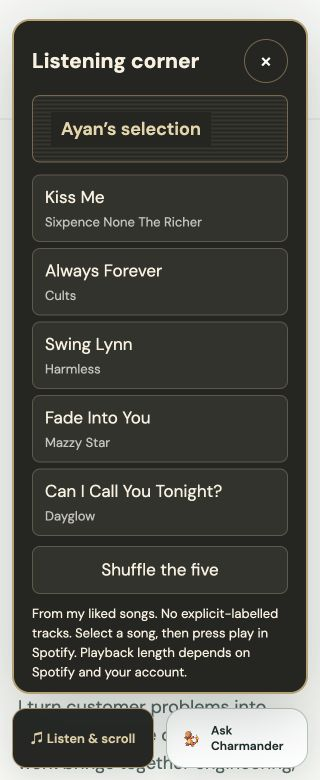
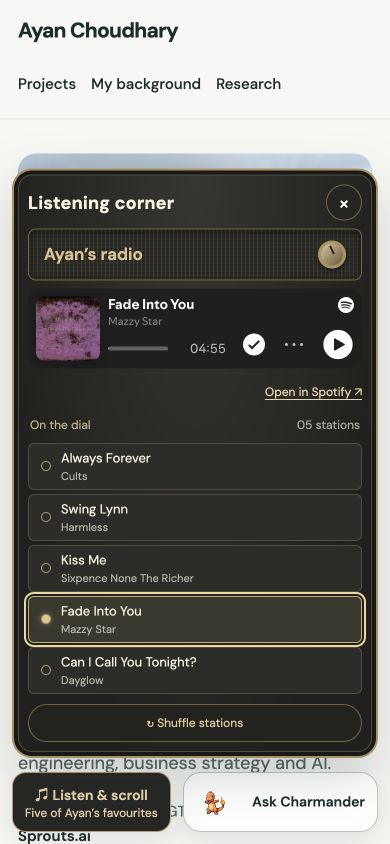
Keep the music player visible above a compact vintage radio dial

diff --git a/music.js b/music.js
@@ -9,10 +9,11 @@
  {id:'61OJxhoY3Ix50rYVKo8zRK',title:'Can I Call You Tonight?',artist:'Dayglow',explicit:false}
  ].filter(t=>t.explicit===false&&/^[A-Za-z0-9]{22}$/.test(t.id));
  const root=document.createElement('div');root.id='portfolio-music';root.className='ph-no-capture';document.body.append(root);
- root.innerHTML='<button class="music-launcher" aria-expanded="false" aria-controls="music-panel">♫ Listen & scroll<small>Five of Ayan’s favourites</small></button><section class="music-panel" id="music-panel" role="dialog" aria-modal="false" aria-label="Ayan’s listening corner" hidden><header class="speaker-top"><strong>Listening corner</strong><button aria-label="Close music player">×</button></header><div class="speaker-grille"><span>Ayan’s selection</span></div><div class="music-tracks"></div><button class="music-shuffle">Shuffle the five</button><div class="music-player"></div><p class="music-note">From my liked songs. No explicit-labelled tracks. Select a song, then press play in Spotify. Playback length depends on Spotify and your account.</p></section>';
+ root.innerHTML='<button class="music-launcher" aria-expanded="false" aria-controls="music-panel">♫ Listen & scroll<small>Five of Ayan’s favourites</small></button><section class="music-panel" id="music-panel" role="dialog" aria-modal="false" aria-label="Ayan’s listening corner" hidden><header class="speaker-top"><strong>Listening corner</strong><button aria-label="Close music player">×</button></header><div class="speaker-grille"><span>Ayan’s radio</span><i aria-hidden="true"></i></div><div class="music-player"><div class="radio-idle"><span aria-hidden="true">♫</span><strong>Pick your soundtrack</strong></div></div><div class="radio-stations-label">On the dial <span>05 stations</span></div><div class="music-tracks" role="radiogroup" aria-label="Choose a song"></div><button class="music-shuffle">↻ Shuffle stations</button></section>';
  const launcher=root.querySelector('.music-launcher'),panel=root.querySelector('.music-panel'),list=root.querySelector('.music-tracks'),player=root.querySelector('.music-player');let selected=null;
  function shuffle(){for(let i=tracks.length-1;i>0;i--){const j=Math.floor(Math.random()*(i+1));[tracks[i],tracks[j]]=[tracks[j],tracks[i]];}render();}
- function render(){list.replaceChildren();tracks.forEach(t=>{const b=document.createElement('button');b.type='button';b.setAttribute('aria-pressed',String(selected===t.id));b.textContent=t.title;const small=document.createElement('small');small.textContent=t.artist;b.append(small);b.addEventListener('click',()=>{selected=t.id;player.replaceChildren();const iframe=document.createElement('iframe');iframe.title='Spotify player: '+t.title;iframe.src='https://open.spotify.com/embed/track/'+t.id+'?theme=0';iframe.allow='autoplay; clipboard-write; encrypted-media; fullscreen; picture-in-picture';player.append(iframe);const a=document.createElement('a');a.href='https://open.spotify.com/track/'+t.id;a.textContent='Open '+t.title+' in Spotify ↗';a.target='_blank';a.rel='noopener noreferrer';a.className='music-fallback';player.append(a);render();});list.append(b);});}
- function close(){panel.hidden=true;launcher.setAttribute('aria-expanded','false');player.replaceChildren();selected=null;render();}
+ function select(t){selected=t.id;player.replaceChildren();const iframe=document.createElement('iframe');iframe.title='Spotify player: '+t.title;iframe.src='https://open.spotify.com/embed/track/'+t.id+'?theme=0';iframe.allow='autoplay; clipboard-write; encrypted-media; fullscreen; picture-in-picture';player.append(iframe);const a=document.createElement('a');a.href='https://open.spotify.com/track/'+t.id;a.textContent='Open in Spotify ↗';a.target='_blank';a.rel='noopener noreferrer';a.className='music-fallback';player.append(a);render();}
+ function render(){list.replaceChildren();tracks.forEach(t=>{const b=document.createElement('button');b.type='button';b.setAttribute('role','radio');b.setAttribute('aria-checked',String(selected===t.id));b.textContent=t.title;const small=document.createElement('small');small.textContent=t.artist;b.append(small);b.addEventListener('click',()=>select(t));b.addEventListener('keydown',e=>{if(['ArrowDown','ArrowRight','ArrowUp','ArrowLeft','Home','End'].includes(e.key)){e.preventDefault();const current=tracks.indexOf(t),next=e.key==='Home'?0:e.key==='End'?tracks.length-1:(current+(['ArrowDown','ArrowRight'].includes(e.key)?1:-1)+tracks.length)%tracks.length;select(tracks[next]);list.children[next].focus({preventScroll:true});}});list.append(b);});}
+ function close(){panel.hidden=true;launcher.setAttribute('aria-expanded','false');player.innerHTML='<div class="radio-idle"><span aria-hidden="true">♫</span><strong>Pick your soundtrack</strong></div>';selected=null;render();}
  launcher.addEventListener('click',()=>{if(panel.hidden){document.dispatchEvent(new CustomEvent('portfolio-music-open'));panel.hidden=false;launcher.setAttribute('aria-expanded','true');panel.querySelector('button').focus({preventScroll:true});}else close();});panel.querySelector('header button').addEventListener('click',()=>{close();launcher.focus({preventScroll:true});});root.querySelector('.music-shuffle').addEventListener('click',shuffle);document.addEventListener('portfolio-guide-open',close);document.addEventListener('keydown',e=>{if(e.key==='Escape'&&!panel.hidden){close();launcher.focus({preventScroll:true});}});shuffle();
 })();

diff --git a/guide.css b/guide.css
@@ -12,3 +12,10 @@
 
 .music-fallback{display:block;color:#e9d4a7;font-size:14px;min-height:44px;padding-top:10px;text-underline-offset:3px}
 @media(max-width:360px){.guide-launcher,.music-launcher{width:calc((100% - 36px)/2);min-height:60px;padding:6px}.guide-launcher{gap:2px}.guide-launcher .guide-avatar{width:36px;height:36px}.guide-launcher>span{font-size:12px}.music-launcher{font-size:13px}.music-launcher small{display:none}}
+
+/* A compact leather-and-brass listening radio. */
+.music-panel{width:340px;padding:16px;border:2px solid #ac9263;border-radius:20px;background:radial-gradient(ellipse at top,#37352e,#20211e 75%);box-shadow:inset 0 0 0 4px #191a17,inset 0 0 0 5px #514b3b,0 18px 50px #172d2b35}
+.speaker-top strong{font-size:18px;letter-spacing:.01em}.speaker-top button{width:36px;height:36px;font-size:20px}.speaker-grille{height:66px;margin:12px 0;display:flex;align-items:center;justify-content:space-between;padding:12px 15px;border-color:#756744;background:repeating-linear-gradient(0deg,#59534355 0 1px,transparent 1px 4px),repeating-linear-gradient(90deg,#59534355 0 1px,#252522 1px 4px);box-shadow:inset 0 2px 8px #0008}.speaker-grille span{font-size:17px;color:#e0c491;background:transparent;padding:0}.speaker-grille i{width:28px;height:28px;border:3px solid #ae9360;border-radius:50%;background:linear-gradient(135deg,#e0c795,#665537);box-shadow:0 2px 5px #0008;position:relative}.speaker-grille i:after{content:'';position:absolute;width:2px;height:9px;background:#27251e;top:2px;left:10px;transform:rotate(-25deg)}
+.music-player iframe{height:152px;margin:0}.music-fallback{font-size:12px;min-height:28px;padding:5px 0 0;text-align:right}.radio-idle{height:110px;border:1px solid #56503d;border-radius:12px;display:flex;align-items:center;justify-content:center;gap:12px;background:#181b18;color:#cbbd9b}.radio-idle span{font-size:30px}.radio-idle strong{font-size:14px;font-weight:500}.radio-stations-label{display:flex;justify-content:space-between;font-size:12px;color:#c7b184;margin:14px 2px 8px}.radio-stations-label span{color:#aaa99e}.music-tracks{gap:4px}.music-tracks button{position:relative;min-height:44px;padding:6px 10px 6px 32px;font-size:13px;line-height:1.25;border-color:#514c3e;border-radius:6px;background:#2c2d27}.music-tracks button:before{content:'';position:absolute;left:12px;top:17px;width:8px;height:8px;border:1px solid #a69570;border-radius:50%}.music-tracks button[aria-checked=true]{border-color:#c9ad75;background:#39392e}.music-tracks button[aria-checked=true]:before{background:#e7c783;box-shadow:0 0 6px #d5b97580}.music-tracks small{font-size:11px;margin-top:3px;color:#b5b4a8}.music-shuffle{font-size:12px;min-height:38px;margin-top:10px;color:#dfc895;background:#22231f;border-color:#726344;border-radius:20px}.music-panel button:focus-visible{outline:2px solid #efd79e;outline-offset:2px}
+@media(max-width:650px){.music-panel{width:auto;padding:14px}.speaker-grille{height:52px;margin:8px 0}.radio-stations-label{margin-top:10px}.music-tracks button{min-height:44px}.music-panel{max-height:calc(100dvh - 105px)}}
+.music-panel{box-sizing:border-box}.music-player iframe{height:80px}.radio-idle{height:80px}

diff --git a/docs/portfolio-validation.md b/docs/portfolio-validation.md
@@ -11,3 +11,9 @@ Validated locally in Chrome on 15 October 2026.
 - Eight Node regression tests passed for published profile facts, project links, benchmark measurements and guardrails. JavaScript syntax checks and git diff --check passed. All static HTML asset references resolved locally.
 
 The music selection is a dated snapshot. It does not use owner API credentials or automatically read future likes. Spotify controls visitor playback availability. The profile guide uses local retrieval, not a remote model service.
+
+Radio refinement: removed the explanatory music paragraph, moved the compact
+80px Spotify player above the five stations, and reduced track typography to
+13px titles and 11px artists. Inspected desktop and 390px renderings. Radio
+selectors support arrow keys, Home and End; ArrowDown changed Kiss Me to the
+next station and updated the embedded track without autoplay.
